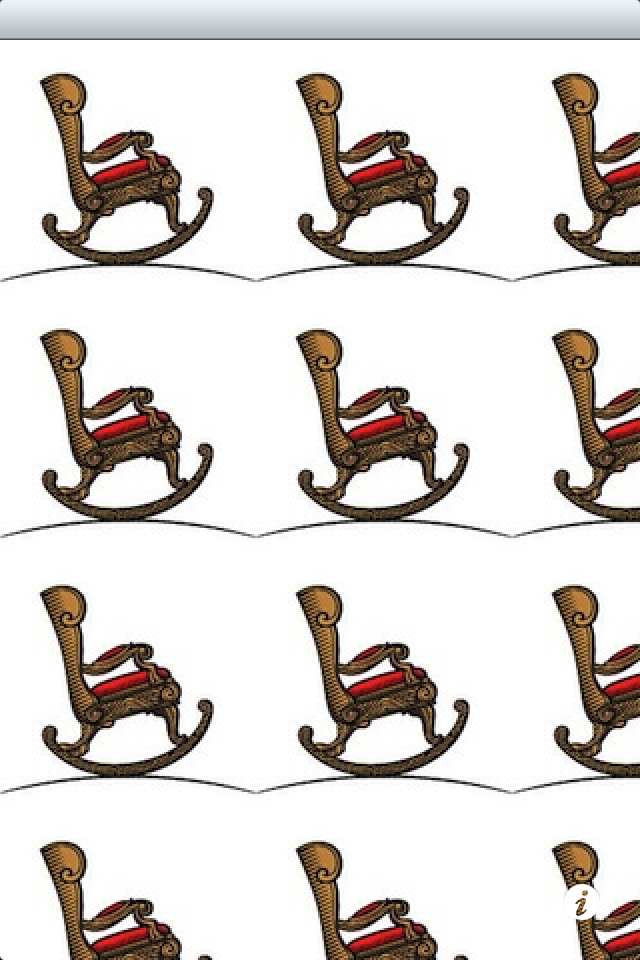
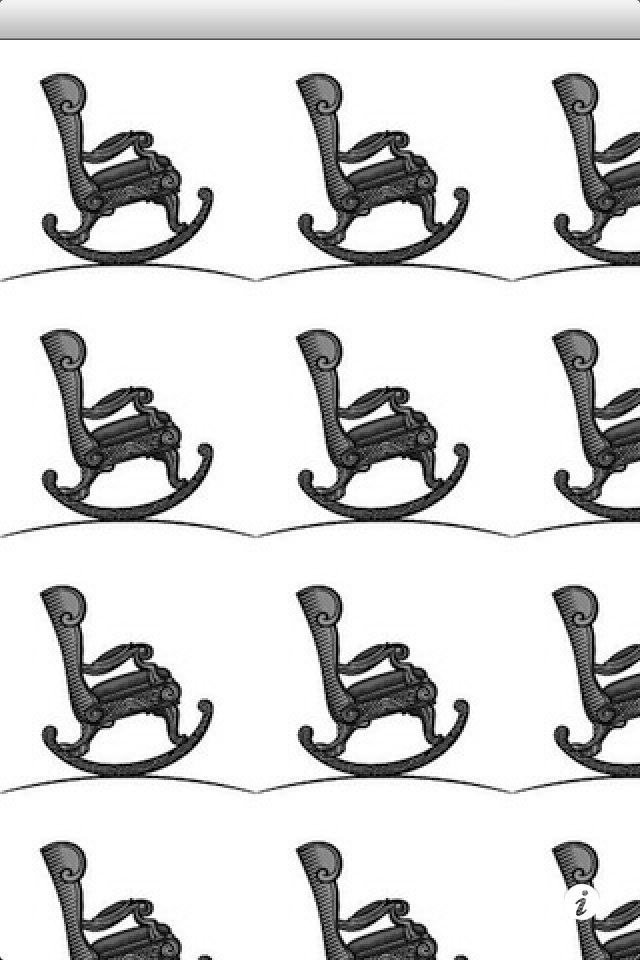
Prerelease. Made default images colorless. Changed cache object owning model. Added working with cache to background.

diff --git a/TilesForYandex/ZBMainViewController.m b/TilesForYandex/ZBMainViewController.m
@@ -20,7 +20,7 @@
 @property (nonatomic, retain)	ZBTileScrollView *	tileScrollView;
 @property (nonatomic, retain)	DownloadManager *	downloadManager;
 @property (nonatomic, retain)	NSOperationQueue*	operationQueue;
-@property (nonatomic)			ZBCacheRef			cache;
+@property (assign)				ZBCacheRef			cache;
 
 @end
 
@@ -73,30 +73,44 @@
 	if (!operationQueue_)
 	{
 		operationQueue_ = [[NSOperationQueue alloc] init];
-		operationQueue_.maxConcurrentOperationCount = 1;	// TODO: tweak this with tile profiler
+		operationQueue_.maxConcurrentOperationCount = 1;
 	}
 	return operationQueue_;
 }
 
-- (ZBCacheRef) cache
+#pragma mark - Initialization and memory management
+
+- (ZBCacheRef) createCache
 {
-	if (!cache_)
-	{
-		NSArray *cachePaths = NSSearchPathForDirectoriesInDomains( NSCachesDirectory, NSUserDomainMask, YES );
-		NSString *cachePath = [NSString stringWithFormat:@"%@/", [cachePaths objectAtIndex:0]];
-		cache_ = ZBCacheCreate( [cachePath UTF8String], [ZBTileImageExtension UTF8String] );
-		assert( cache_ );
-	}
-	return cache_;
+	NSArray *cachePaths = NSSearchPathForDirectoriesInDomains( NSCachesDirectory, NSUserDomainMask, YES );
+	NSString *cachePath = [NSString stringWithFormat:@"%@/", [cachePaths objectAtIndex:0]];
+	ZBCacheRef cache = ZBCacheCreate( [cachePath UTF8String], [ZBTileImageExtension UTF8String] );
+	assert( cache );
+	return cache;
 }
 
-- (void) setCache:(ZBCacheRef)cache
+- (id) initWithNibName:(NSString *)nibNameOrNil bundle:(NSBundle *)nibBundleOrNil
 {
-	ZBCacheDelete(cache_);
-	cache_ = cache;
+	self = [super initWithNibName:nibNameOrNil bundle:nibBundleOrNil];
+	if (!self) { return nil;}
+	
+	self.cache = [self createCache];
+	
+	return self;
 }
 
-#pragma mark - Memory management
+- (void) dealloc 
+{
+	self.downloadManager	= nil;
+	self.operationQueue		= nil;
+	
+	[loadedImages_	 release];
+	[tileScrollView_ release];
+	
+	ZBCacheDelete(self.cache);
+	
+	[super dealloc];
+}
 
 - (void) didReceiveMemoryWarning
 {
@@ -106,20 +120,6 @@
 	{
 		self.operationQueue = nil;
 	}
-	
-	self.cache = nil;
-}
-
-- (void) dealloc 
-{
-	self.cache				= nil;
-	self.downloadManager	= nil;
-	self.operationQueue		= nil;
-	
-	[loadedImages_	 release];
-	[tileScrollView_ release];
-	
-	[super dealloc];
 }
 
 #pragma mark - View lifecycle
@@ -175,81 +175,72 @@
 
 - (UIImage *) imageForTileAtHorIndex:(NSUInteger)horIndex verIndex:(NSUInteger)verIndex
 {
-	NSString* imageSignature = [NSString signatureForHorIndex:horIndex verIndex:verIndex];
+		// If image is already downloaded we will open and decode it in background
+	NSString* imageSignature	= [NSString signatureForHorIndex:horIndex verIndex:verIndex];
 	
-	char file[ZBFilePathLength] = { 0 };
-	int fileExists = ZBCacheGetFileForSignature( self.cache, [imageSignature UTF8String], file );
-	if (fileExists) 
-	{ 
-		NSString *filePath = [NSString stringWithCString:file encoding:NSUTF8StringEncoding];
-		
-		NSDictionary *info = [NSDictionary dictionaryWithObjectsAndKeys:imageSignature, kSignatureKey,
-																		filePath,		kCachedPathKey, nil];
-		
-		NSInvocationOperation *imageOpening = [[NSInvocationOperation alloc] initWithTarget:self 
-																				   selector:@selector(openImage:)
-																					 object:info];
-		
-		[self.operationQueue addOperation:imageOpening];
-		[imageOpening release];
-	}
-	else 
-	{
-		[self.downloadManager downloadImageForSignature:imageSignature];		
-	}
+	NSInvocationOperation *askingImage = [[NSInvocationOperation alloc] initWithTarget:self 
+																			  selector:@selector(askForImage:)
+																				object:imageSignature];
+	[self.operationQueue addOperation:askingImage];
+	[askingImage release];
 	
 	return [UIImage imageNamed:@"placeholder.png"];
 }
 
-- (void) openImage:(NSDictionary *)userInfo
+- (void) askForImage:(NSString *)signature
 {
-	assert( ![NSThread isMainThread] );
-	assert( userInfo );
-	
-	NSString *signature = [userInfo objectForKey:kSignatureKey];
-	NSString *filePath =  [userInfo objectForKey:kCachedPathKey];
-	
-	assert( signature );
-	assert( filePath );
-	
-	CFURLRef cfURL = CFURLCreateWithFileSystemPath( NULL, 
-												   ( CFStringRef )filePath,
-												   kCFURLPOSIXPathStyle, 
-												   false );
-	assert( cfURL );
-	
-	CGImageRef cgImage = NULL;
-	
-	CGDataProviderRef provider = CGDataProviderCreateWithURL( cfURL );
-	if (provider)
+	@autoreleasepool
 	{
-		cgImage = CGImageCreateWithPNGDataProvider( provider, NULL, NO, kCGRenderingIntentDefault );
-		
-		CGDataProviderRelease( provider );
-	}
-	CFRelease( cfURL );
+		assert( ![NSThread isMainThread] );
+		assert( signature );
+				
+		char file[ZBFilePathLength] = { 0 };
+		int fileExists = ZBCacheGetFileForSignature( self.cache, [signature UTF8String], file );
+		if (fileExists) 
+		{	
+			CFStringRef filePath	= (CFStringRef)[NSString stringWithCString:file encoding:NSUTF8StringEncoding];
 
-	
-	NSDictionary *info = [NSDictionary dictionaryWithObjectsAndKeys:(id)cgImage,	kImageKey,
-																		signature,	kSignatureKey, nil];
-	CGImageRelease(cgImage);
-	
-	[self performSelectorOnMainThread:@selector(imageOpeningFinished:) withObject:info waitUntilDone:NO];
+			CFURLRef cfURL = CFURLCreateWithFileSystemPath( NULL, filePath, kCFURLPOSIXPathStyle, false );
+			assert( cfURL );
+			
+			CGImageRef cgImage = NULL;
+			
+			CGDataProviderRef provider = CGDataProviderCreateWithURL( cfURL );
+			if (provider)
+			{
+				cgImage = CGImageCreateWithPNGDataProvider( provider, NULL, NO, kCGRenderingIntentDefault );		
+			}
+			CGDataProviderRelease( provider );
+			CFRelease( cfURL );
+			
+			NSDictionary *info = [NSDictionary dictionaryWithObjectsAndKeys:(id)cgImage,	kImageKey,
+																				signature,	kSignatureKey, nil];
+			CGImageRelease( cgImage );
+			
+			[self performSelectorOnMainThread:@selector(imageOpeningFinished:) withObject:info waitUntilDone:NO];
+		}
+		else 
+		{		
+			[self.downloadManager performSelectorOnMainThread:@selector(downloadImageForSignature:)
+												   withObject:signature
+												waitUntilDone:NO];		
+		}
+	}
 }
 	 
 - (void) imageLoadingFinished:(NSNotification *)note
 {
-	NSDictionary * imageInfo = note.userInfo;
+	NSDictionary *	imageInfo	= note.userInfo;
+	NSString *		path		= [imageInfo objectForKey:kTmpPathKey];
 
-	NSString *signature = [imageInfo objectForKey:kSignatureKey];
-	NSString *path		= [imageInfo objectForKey:kTmpPathKey];
-
-	if (!path) { return; } // Image was not loaded because of cancelling or error  
+		// Image was not loaded because of cancelling or error  
+	if (!path) { return; } 
 	
+	NSString *signature = [imageInfo objectForKey:kSignatureKey];
 	assert( signature );
-	assert( path );
 
-	ZBCacheSetFileForSignature(self.cache, [path UTF8String], [signature UTF8String], YES);
+	ZBCacheRef cache = self.cache;
+	ZBCacheSetFileForSignature( cache, [path UTF8String], [signature UTF8String], YES );
 		
 	if (!tileScrollView_) { return; }
 
@@ -262,24 +253,36 @@
 - (void) imageOpeningFinished:(NSDictionary *)userInfo
 {
 	assert( userInfo );
+	assert( [NSThread isMainThread] );
 	
-	CGImageRef	image =		(CGImageRef)[userInfo objectForKey:kImageKey];
-	NSString *	signature =				[userInfo objectForKey:kSignatureKey];
-	
-	assert( signature );
+	CGImageRef image = (CGImageRef)[userInfo objectForKey:kImageKey];
+	if (!image) { return; }
 
-		// If file is corrupted it should be deleted and a new one downloaded
-	if (!image) { ZBCacheRemoveFileForSignature(self.cache, [signature UTF8String]); }
+	NSString *signature = [userInfo objectForKey:kSignatureKey];	
+	assert( signature );
 	
 	NSUInteger horIndex, verIndex;
 	ZBGetIndexesFromSignature( signature, &horIndex, &verIndex );
-	
+		
 	[self.tileScrollView setImage:image forTileAtHorIndex:horIndex verIndex:verIndex];
 }
 
 - (void) imageNoLongerNeededForTileAtHorIndex:(NSUInteger)horIndex verIndex:(NSUInteger)verIndex
 {
 	NSString* imageSignature = [NSString signatureForHorIndex:horIndex verIndex:verIndex];
+	
+	NSArray *operations = [self.operationQueue operations];
+	for (NSInvocationOperation* operation in operations)
+	{
+		NSInvocation *invocation = [operation invocation];
+		NSString *signature;
+		[invocation getArgument:&signature atIndex:2];
+		
+		if (![imageSignature isEqualToString:signature]) { continue; }
+
+		[operation cancel];
+		return;
+	}
 	
 	[self.downloadManager cancelDownloadingImageForSignature:imageSignature];
 }

diff --git a/TilesForYandex/ZBTileScrollView.m b/TilesForYandex/ZBTileScrollView.m
@@ -265,29 +265,13 @@
 	visibleIndexes.up		= MAX( CGRectGetMinY(bounds) / tileSize_.height, 0			  );	
 	visibleIndexes.right	= MIN( CGRectGetMaxX(bounds) / tileSize_.width  + 1, horTilesNum_ );
 	visibleIndexes.down		= MIN( CGRectGetMaxY(bounds) / tileSize_.height + 1, verTilesNum_ );
-	
-//	VisibleIndexes_t indexesToCheck;
-//	
-//	indexesToCheck.left  = MIN( visibleIndexes.left,  prevVisibleIndexes_.left	);
-//	indexesToCheck.up	 = MIN( visibleIndexes.up,	  prevVisibleIndexes_.up	);
-//	indexesToCheck.right = MAX( visibleIndexes.right, prevVisibleIndexes_.right	);
-//	indexesToCheck.down	 = MAX( visibleIndexes.down,  prevVisibleIndexes_.down	);
-		
-	NSUInteger frameMoved = abs( visibleIndexes.left  - prevVisibleIndexes_.left)	+
-							abs( visibleIndexes.up	  - prevVisibleIndexes_.up)		+
-							abs( visibleIndexes.right - prevVisibleIndexes_.right)	+
-							abs( visibleIndexes.down  - prevVisibleIndexes_.down);
-	
-	if (!frameMoved) { return; }
-	
+				
 	[CATransaction setDisableActions:YES];
 
 		// Going through all tiles
-//	for (NSUInteger i = indexesToCheck.left; i < indexesToCheck.right; ++i)
 	for (NSUInteger i = 0; i < horTilesNum_; ++i)
 	{
 		NSMutableArray *column = [visibleTiles_ objectAtIndex:i];
-//		for (NSUInteger j = indexesToCheck.up; j < indexesToCheck.down; ++j)
 		for (NSUInteger j = 0; j < verTilesNum_; ++j)
 		{
 				// If tile is visible it should be put into visibleTiles_, otherwise it should be released
@@ -321,9 +305,7 @@
 			}
 		}
 	}
-	
-	prevVisibleIndexes_ = visibleIndexes;
-	
+		
 	[CATransaction setDisableActions:NO];
 }
 

diff --git a/TilesForYandex/ZBTileScrollView.h b/TilesForYandex/ZBTileScrollView.h
@@ -35,8 +35,6 @@ typedef struct VisibleIndexes
 {
 	NSArray*	visibleTiles_;
 	BOOL		tilesShouldBeRelayouted_;
-	
-	VisibleIndexes_t prevVisibleIndexes_;
 }
 
 @property (nonatomic, assign)	id<ZBTileScrollViewDataSource>	dataSource;

diff --git a/TilesForYandex/NSString+ImageLoadingSignatures.h b/TilesForYandex/NSString+ImageLoadingSignatures.h
@@ -10,6 +10,7 @@
 #define kTmpPathKey		@"tmpPath"
 #define kCachedPathKey	@"cachedPath"
 #define kImageKey		@"imageRef"
+#define kCacheKey		@"cache"
 
 extern NSString* const ZBTileImageExtension;
 

diff --git a/TilesForYandex/DownloadItem.m b/TilesForYandex/DownloadItem.m
@@ -107,6 +107,7 @@
 	
 	if (stream_)
 	{
+			// TODO: delete file associated with a stream if download was cancelled or finished with error
 		[stream_ close];
 		[self setStream:nil];
 	}
